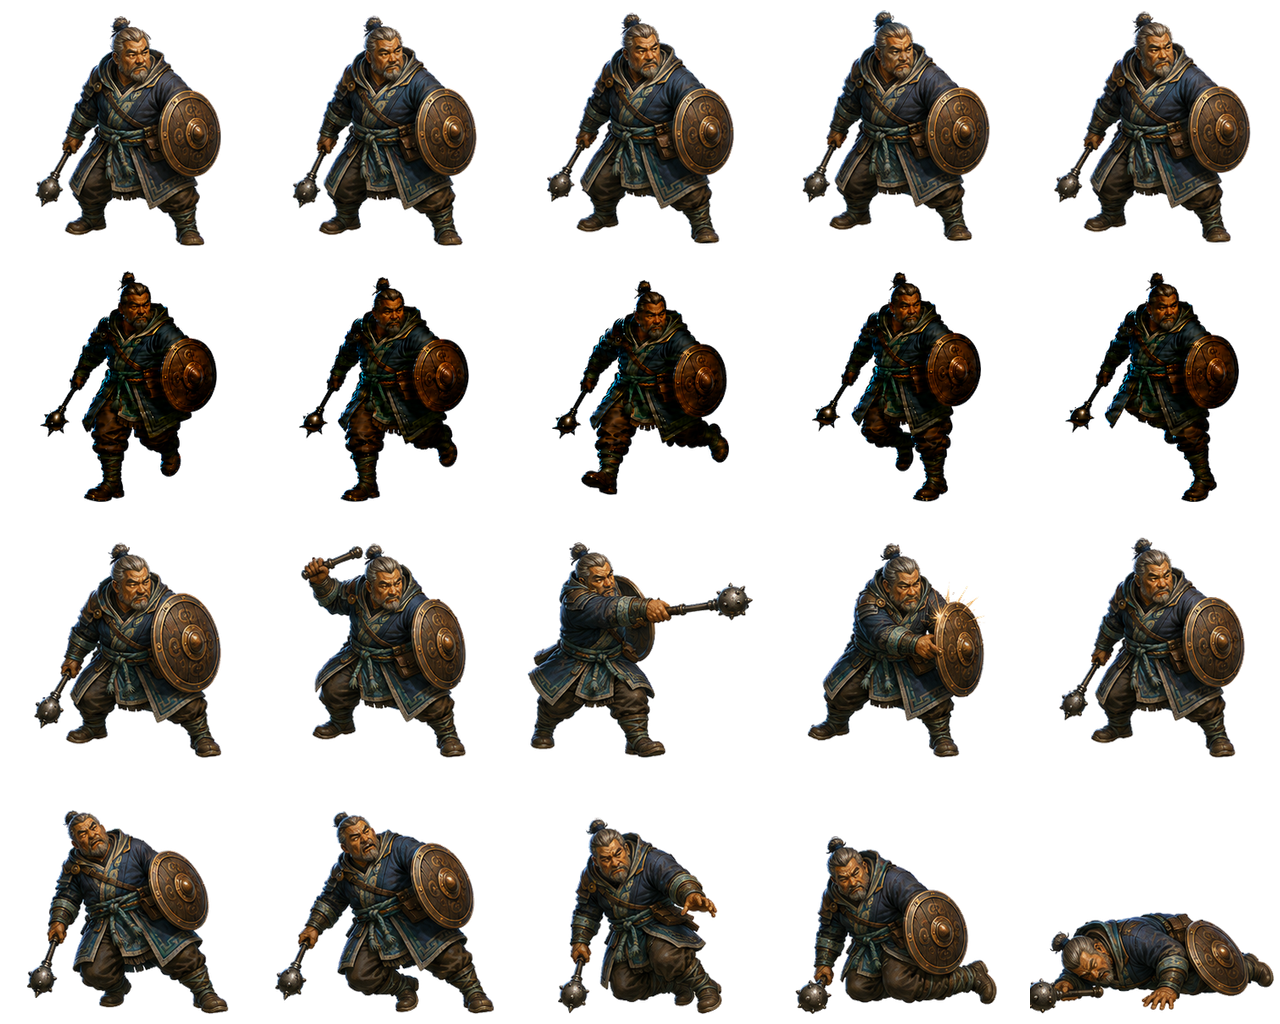
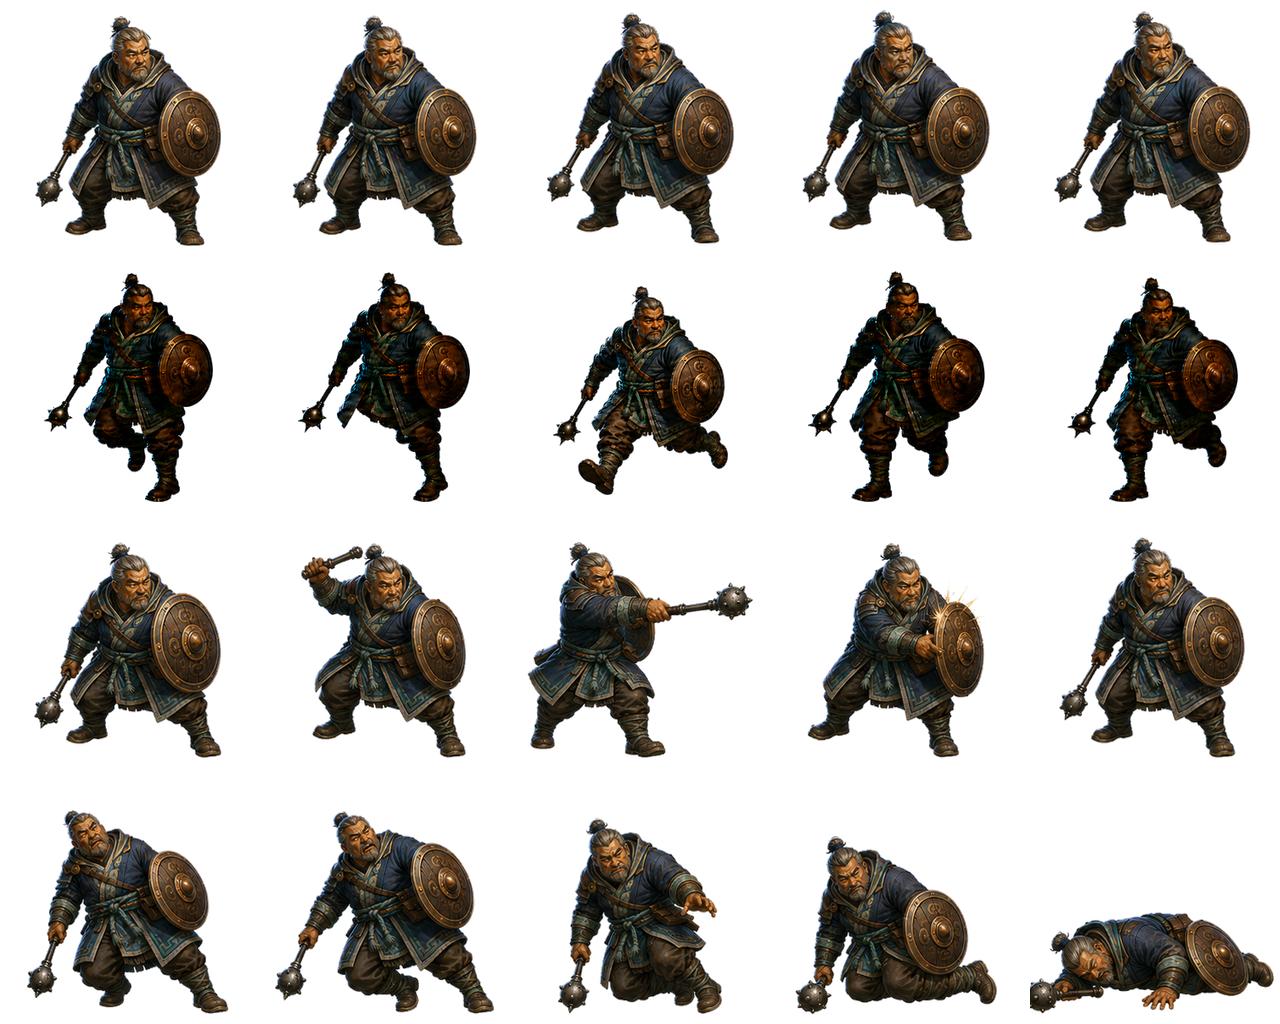
fix(combat): correct Toma v5 gait anatomy

diff --git a/assets/heroes/visuals/realtime-combat-study-v1/PROVENANCE.md b/assets/heroes/visuals/realtime-combat-study-v1/PROVENANCE.md
@@ -361,41 +361,71 @@ new third-party content.
   Output intent: one clean landscape raster strip containing exactly five evenly spaced full-body poses and no other elements.
   ```
 
-- Selected generated original: `/home/joao/.codex/generated_images/01a06fda-5187-71a3-9846-2c8f5d8dcd98/exec-63275e93-eae9-4057-807b-e602a76ccd12.png`.
-  Project strip: `animation-canary-v1/iron-guardian/iron-guardian-run-strip-source-v5.png`
[1 lines of base64/hex data omitted]
-  final selected correction prompt:
+- Portable final-edit input bindings: Image 1 was generation identifier
+  `exec-bbc44a04-6ba2-4a74-affb-83e27a8f5a95.png`
[1 lines of base64/hex data omitted]
+  `../../../../apps/web/static/runtime/combat/realtime-study-v1/hero-iron-guardian-ready-v1.png`
[1 lines of base64/hex data omitted]
+  repository authority `skills/summonlab-character-animations/references/classical-human-run.svg`
[1 lines of base64/hex data omitted]
+  without semantic change as prompt-input identifier `classical-human-run.png`
[1 lines of base64/hex data omitted]
+  record depends on a machine-local generated-image path.
+- The full-strip correction output was generation identifier
+  `exec-6282fe81-538f-4fd1-b558-09586ffe276c.png`
[1 lines of base64/hex data omitted]
+  rejected because its actual visible contacts still began on the mace side and its middle pose was
+  not airborne. Its exact prompt was:
 
   ```text
-  Use case: precise-object-edit
-  Asset type: final production source strip for a five-frame game-character run animation
-  Input images: Image 1 is the clean edit target. Its FIRST CELL establishes the required compact boot-to-boot stride width for the opposite contact. Image 2 is Toma's canonical identity anchor.
-  Primary request: Change only the FOURTH CELL's lifted trailing leg and boot. Keep the current planted boot on the screen-right side fixed exactly where it is. Extend the bent, lifted trailing leg toward screen-left by a small amount—about 8% of that cell's width—so the horizontal distance between the two boot centers matches cell 1. Keep the trailing boot fully above the contact line with a clear white gap below it. Preserve the fourth-cell hips, torso, planted leg, upper body, and equipment exactly. Preserve cells 1, 2, 3, and 5 exactly.
-  Motion invariant: left,left,none,right,right remains unchanged; frames 1 and 4 are opposite planted sides with matching compact stride width and torso height; frame 5 flows into frame 1.
-  Preserve: exact face, topknot, beard, stocky proportions, navy-and-teal armor, bronze shield, compact mace, camera, scale, lighting, spacing, full-body clearance, painterly 2.5D finish, and pure uniform #FFFFFF matte.
-  Avoid: moving the planted right-side boot; grounding the trailing boot; changing any upper body or other frame; long or split stride; high kick; background texture or speckles; shadow; ground mark; scenery; text; divider; crop; mirror; equipment swap; wild mace; or extra limb.
+  Use case: identity-preserve precise temporal-unit edit.
+  Asset type: final production source strip for a five-frame game-character run animation.
+  Input roles: Image 1 is the named final edit target and supplies the exact five-cell layout, Toma rendering, camera, equipment, scale, and lighting. Image 2 is Toma's canonical identity anchor. Image 3 is the classical-human-run-5 motion authority only; do not reproduce its diagram graphics, labels, colors, or style.
+  Primary request: Redraw all five poses together as one coherent compact heavy-run temporal unit, keeping the same cell order and steep three-quarter up-field view. Toma's bronze shield is permanently on his anatomical LEFT, visible on SCREEN-RIGHT. His compact mace is permanently in his anatomical RIGHT hand, visible on SCREEN-LEFT. Beat 1: the shield-side/anatomical-left boot is visibly planted under the screen-right hip; the mace-side/right boot is lifted or trailing. Beat 2: the same shield-side/anatomical-left boot remains visibly planted and compresses into push; the mace-side/right leg advances. Beat 3: neither boot touches the contact line; the mace-side/anatomical-right leg and knee advance toward screen-left, below belt height, in a low airborne pass. Beat 4: the mace-side/anatomical-right boot is visibly planted under the screen-left hip; the shield-side/left boot is lifted or trailing. Beat 5: the same mace-side/anatomical-right boot remains visibly planted as recovery returns toward beat 1. The visible support must therefore be shield-side, shield-side, none, mace-side, mace-side—anatomical left,left,none,right,right.
+  Preserve exactly: older East Asian face, gray topknot, short beard, stocky adult proportions, navy-and-muted-teal layered armor, bronze shield on anatomical-left/screen-right, compact mace in anatomical-right/screen-left, constant body and shield scale, common lighting, full-body clearance, stable contact line, and premium painterly 2.5D finish.
+  Motion invariant: five unique compact poses; low continuous center-of-mass arc; frames 1 and 4 are opposite planted sides with comparable stride and torso height; plausible frame-5-to-frame-1 seam. Do not relabel frames, mirror the body, swap equipment, duplicate a pose, hide either boot, or leave a planted-side ambiguity.
+  Avoid: high front kick, knee above belt, deep squat, frog legs, split leap, foot aimed at camera, wild or elongated mace, shield-size pulse, extra limb, baked shadow, ground mark, scenery, text, divider, crop, or background texture.
+  Background: clean uniform white matte; do not add shadows or other elements.
+  Output intent: one clean landscape raster strip containing exactly five evenly spaced full-body Toma poses and nothing else.
   ```
 
+- Selected pixel sources remain non-destructive generation originals: identifier
+  `exec-63275e93-eae9-4057-807b-e602a76ccd12.png`
[1 lines of base64/hex data omitted]
+  shield-side contact cells 4–5 and mace-side contact cells 1–2; identifier
+  `exec-a7e7696a-b92f-4eb4-9086-0d39cc61d446.png`
[1 lines of base64/hex data omitted]
+  genuinely airborne middle pose with the mace-side leg advancing. The latter edit used the prior
[1 lines of base64/hex data omitted]
+  as edit target plus the same identity and motion-authority bindings.
+- Deterministic temporal assembly placed source poses `632:4,632:5,a7e:3,632:1,632:2` into frames
+  1–5. This changes actual visible pose order rather than relabeling evidence, mirroring pixels, or
+  swapping equipment. Per cell, the center-connected subject was retained and every other pixel was
+  replaced by exact `#FFFFFF`; a final deterministic neutral-matte rule also replaced pixels where
+  `min(R,G,B) >= 225` and `max(R,G,B) - min(R,G,B) <= 32` with exact `#FFFFFF`. The generators did
+  not themselves supply an exact white matte. Generation originals remain unmodified.
+- Project strip: `animation-canary-v1/iron-guardian/iron-guardian-run-strip-source-v5.png`
[1 lines of base64/hex data omitted]
 - Generation review: early strips were rejected for repeated same-side support; later corrections
-  were rejected for an oversized center pose that clipped the declared lift, a 25-pixel crown spread,
-  same-side or doubled frame-4 contact, off-white background speckling visible after keying, or a
-  frame-4 stride visibly narrower than frame 1. The selected original was the first clean strip to
-  retain the opposite frame-4/5 support while keeping the 5-to-1 seam, equipment, and compact scale.
+  were rejected for an oversized center pose that clipped the declared lift, excessive crown spread,
+  ambiguous/reversed anatomical support, off-white background speckling visible after keying, or a
+  frame-4 stride visibly narrower than frame 1. The selected assembly is the first source whose
+  visible anatomy, not its labels, reads shield-side, shield-side, airborne, mace-side, mace-side.
 - Project source sheet: `animation-canary-v1/iron-guardian/iron-guardian-motion-sheet-source-v5.png`
[2 lines of base64/hex data omitted]
   evidence: `animation-canary-v1/iron-guardian/iron-guardian-motion-support-v5.json`
[2 lines of base64/hex data omitted]
   atlas: `../../../../apps/web/static/runtime/combat/realtime-study-v1/animation-canary-v1/iron-guardian/iron-guardian-motion-v5.png`
[2 lines of base64/hex data omitted]
   atlas JSON: `iron-guardian-motion-v5.json`
[1 lines of base64/hex data omitted]
   manifest: `iron-guardian-motion-manifest-v5.json`
[1 lines of base64/hex data omitted]
 - Actual 256-pixel runtime measurements, using outer vertical shield-rim diameter, horizontal
   boot-center stride span, and upper armored-shoulder torso top: frame 1
-  `left:15:245:76:70:52`; frame 2 `left:21:245:75:62:50`; frame 3
-  `none:24:238:77:68:51`; frame 4 `right:16:245:75:67:50`; frame 5
-  `right:16:245:76:58:49`. Crown spread is 9 pixels; frame 3 has an 8-pixel gap above
+  `left:17:245:75:67:50`; frame 2 `left:16:245:76:58:49`; frame 3
+  `none:30:238:77:68:51`; frame 4 `right:15:245:76:70:52`; frame 5
+  `right:21:245:75:62:50`. Crown spread is 15 pixels; frame 3 has an 8-pixel gap above
   contact line y=246; shield relative range is 2/77; contact strides differ by 3/70; contact torso
   tops differ by 2 pixels.
 - Deterministic source assembly command:
@@ -424,22 +454,26 @@ new third-party content.
 
 - Evidence was written with the five measurements above, `classical-human-run-5`, source grid
   `5x4@1`, and support `left,left,none,right,right`. Its bound decoded RGB cell hashes are
[10 lines of base64/hex data omitted]
 - Validator result: `{"valid":true,"actorId":"iron-guardian","advanceFrames":5,"preservedFrames":15}`.
   The validator/rebuild suite passed 19/19 tests with zero skips. A fresh temporary rebuild matched
   the committed v5 source sheet, atlas PNG, atlas JSON, manifest, and evidence byte-for-byte, and all
   15 decoded idle, attack, hit, and down cells are RGBA-identical to v4.
 - Visual review: all full bodies, boots, shield, and mace remain clear at source resolution. The
-  built row reads contact, compact compression, low passing flight, visibly opposite contact, and
-  recovery; equipment remains on the same side, shield size is stable, the mace stays below the
-  waist, and no shadow, scenery, text, matte noise, crop, or extra limb is visible. A 15-frame
+  built row visibly plants the shield-side/anatomical-left boot in frames 1–2, clears both boots in
+  frame 3 while the mace-side/anatomical-right leg advances, and plants the mace-side/right boot in
+  frames 4–5. Equipment remains on the same side, shield size is stable, the mace stays below the
+  waist, and no shadow, scenery, text, matte noise, crop, or extra limb is visible. Every cell edge
+  has zero non-white pixels and the source contains zero non-white pixels matching the neutral-matte
+  key range, while the built runtime retains clean alpha. A 15-frame
   184-pixel animated review artifact was encoded as three loops at 100 ms per frame (10 FPS) to check
   the compact weight and 5-to-1 seam.
-- Limitation: frame 4's lifted trailing boot remains partially under the coat at gameplay size, so
-  owner playback—not evidence labels—must decide whether the opposite contact is sufficiently clear.
-  Runtime activation is intentionally deferred to the next task.
+- Limitation: deterministic matte normalization keys neutral-light highlights by the same threshold
+  used by the runtime builder. The visible silhouette and equipment survive at 184 pixels, but owner
+  playback must still decide whether the compact heavy cadence is preferable to a more exaggerated
+  stride. Runtime activation is intentionally deferred to the next task.
 - Status: `candidate`; explicit owner playback approval is still required.
